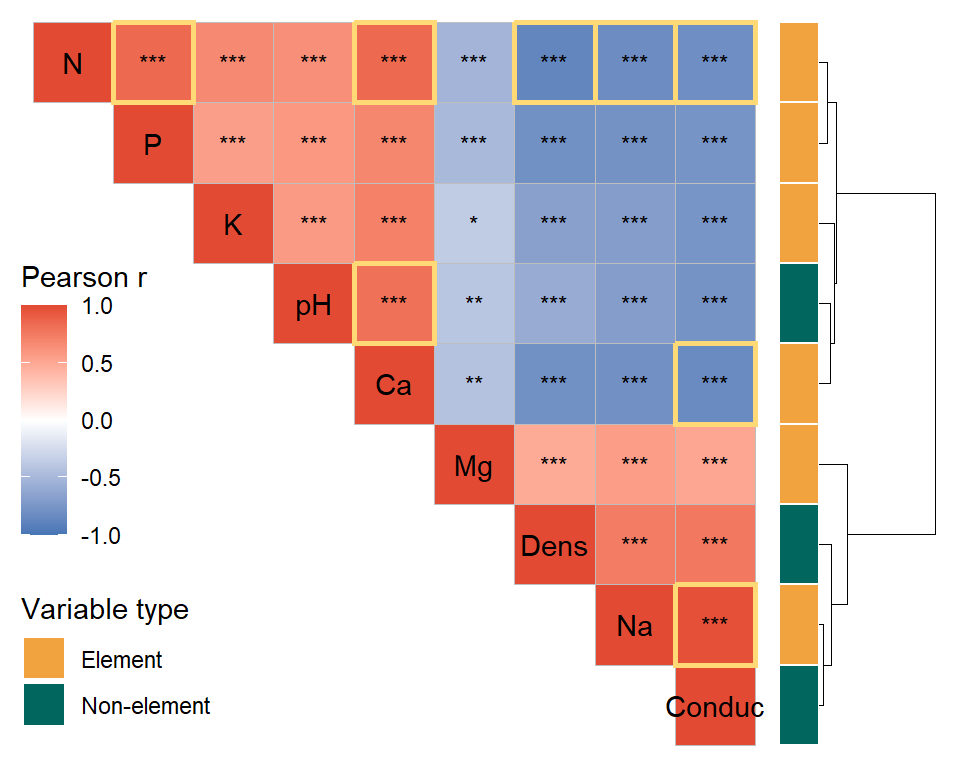
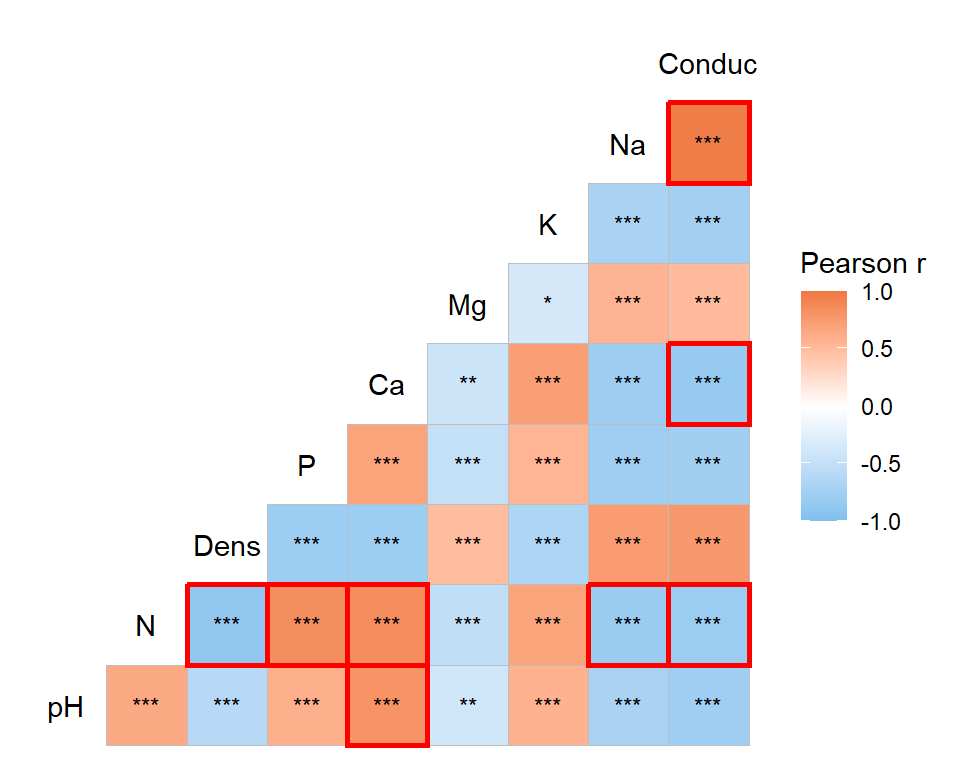
u

diff --git a/_posts/2026-02-17-post-43-pair-them-upcreating-scatterplot-and-correlation-matrices-in-ggplots/post-43-pair-them-upcreating-scatterplot-and-correlation-matrices-in-ggplots.html b/_posts/2026-02-17-post-43-pair-them-upcreating-scatterplot-and-correlation-matrices-in-ggplots/post-43-pair-them-upcreating-scatterplot-and-correlation-matrices-in-ggplots.html
@@ -119,7 +119,7 @@ code span.wa { color: #5e5e5e; font-style: italic; } /* Warning */
   <!--/radix_placeholder_rmarkdown_metadata-->
   
   <script type="text/json" id="radix-resource-manifest">
-  {"type":"character","attributes":{},"value":["post-43-pair-them-upcreating-scatterplot-and-correlation-matrices-in-ggplots_files/anchor-4.2.2/anchor.min.js","post-43-pair-them-upcreating-scatterplot-and-correlation-matrices-in-ggplots_files/bowser-1.9.3/bowser.min.js","post-43-pair-them-upcreating-scatterplot-and-correlation-matrices-in-ggplots_files/distill-2.2.21/template.v2.js","post-43-pair-them-upcreating-scatterplot-and-correlation-matrices-in-ggplots_files/figure-html5/unnamed-chunk-2-1.png","post-43-pair-them-upcreating-scatterplot-and-correlation-matrices-in-ggplots_files/figure-html5/unnamed-chunk-2-2.png","post-43-pair-them-upcreating-scatterplot-and-correlation-matrices-in-ggplots_files/figure-html5/unnamed-chunk-3-1.png","post-43-pair-them-upcreating-scatterplot-and-correlation-matrices-in-ggplots_files/figure-html5/unnamed-chunk-4-1.png","post-43-pair-them-upcreating-scatterplot-and-correlation-matrices-in-ggplots_files/figure-html5/unnamed-chunk-5-1.png","post-43-pair-them-upcreating-scatterplot-and-correlation-matrices-in-ggplots_files/header-attrs-2.30/header-attrs.js","post-43-pair-them-upcreating-scatterplot-and-correlation-matrices-in-ggplots_files/jquery-3.6.0/jquery-3.6.0.js","post-43-pair-them-upcreating-scatterplot-and-correlation-matrices-in-ggplots_files/jquery-3.6.0/jquery-3.6.0.min.js","post-43-pair-them-upcreating-scatterplot-and-correlation-matrices-in-ggplots_files/jquery-3.6.0/jquery-3.6.0.min.map","post-43-pair-them-upcreating-scatterplot-and-correlation-matrices-in-ggplots_files/popper-2.6.0/popper.min.js","post-43-pair-them-upcreating-scatterplot-and-correlation-matrices-in-ggplots_files/tippy-6.2.7/tippy-bundle.umd.min.js","post-43-pair-them-upcreating-scatterplot-and-correlation-matrices-in-ggplots_files/tippy-6.2.7/tippy-light-border.css","post-43-pair-them-upcreating-scatterplot-and-correlation-matrices-in-ggplots_files/tippy-6.2.7/tippy.css","post-43-pair-them-upcreating-scatterplot-and-correlation-matrices-in-ggplots_files/tippy-6.2.7/tippy.umd.min.js","post-43-pair-them-upcreating-scatterplot-and-correlation-matrices-in-ggplots_files/webcomponents-2.0.0/webcomponents.js"]}
+  {"type":"character","attributes":{},"value":["post-43-pair-them-upcreating-scatterplot-and-correlation-matrices-in-ggplots_files/anchor-4.2.2/anchor.min.js","post-43-pair-them-upcreating-scatterplot-and-correlation-matrices-in-ggplots_files/bowser-1.9.3/bowser.min.js","post-43-pair-them-upcreating-scatterplot-and-correlation-matrices-in-ggplots_files/distill-2.2.21/template.v2.js","post-43-pair-them-upcreating-scatterplot-and-correlation-matrices-in-ggplots_files/figure-html5/unnamed-chunk-2-1.png","post-43-pair-them-upcreating-scatterplot-and-correlation-matrices-in-ggplots_files/figure-html5/unnamed-chunk-2-2.png","post-43-pair-them-upcreating-scatterplot-and-correlation-matrices-in-ggplots_files/figure-html5/unnamed-chunk-3-1.png","post-43-pair-them-upcreating-scatterplot-and-correlation-matrices-in-ggplots_files/figure-html5/unnamed-chunk-4-1.png","post-43-pair-them-upcreating-scatterplot-and-correlation-matrices-in-ggplots_files/figure-html5/unnamed-chunk-5-1.png","post-43-pair-them-upcreating-scatterplot-and-correlation-matrices-in-ggplots_files/figure-html5/unnamed-chunk-6-1.png","post-43-pair-them-upcreating-scatterplot-and-correlation-matrices-in-ggplots_files/header-attrs-2.30/header-attrs.js","post-43-pair-them-upcreating-scatterplot-and-correlation-matrices-in-ggplots_files/jquery-3.6.0/jquery-3.6.0.js","post-43-pair-them-upcreating-scatterplot-and-correlation-matrices-in-ggplots_files/jquery-3.6.0/jquery-3.6.0.min.js","post-43-pair-them-upcreating-scatterplot-and-correlation-matrices-in-ggplots_files/jquery-3.6.0/jquery-3.6.0.min.map","post-43-pair-them-upcreating-scatterplot-and-correlation-matrices-in-ggplots_files/popper-2.6.0/popper.min.js","post-43-pair-them-upcreating-scatterplot-and-correlation-matrices-in-ggplots_files/tippy-6.2.7/tippy-bundle.umd.min.js","post-43-pair-them-upcreating-scatterplot-and-correlation-matrices-in-ggplots_files/tippy-6.2.7/tippy-light-border.css","post-43-pair-them-upcreating-scatterplot-and-correlation-matrices-in-ggplots_files/tippy-6.2.7/tippy.css","post-43-pair-them-upcreating-scatterplot-and-correlation-matrices-in-ggplots_files/tippy-6.2.7/tippy.umd.min.js","post-43-pair-them-upcreating-scatterplot-and-correlation-matrices-in-ggplots_files/webcomponents-2.0.0/webcomponents.js"]}
   </script>
   <!--radix_placeholder_navigation_in_header-->
   <!--/radix_placeholder_navigation_in_header-->
@@ -1651,7 +1651,7 @@ div.l-body img {
 <h2 id="part-ii.-create-correlation-heatmaps-with-ggcorrheatmap">Part II. Create correlation heatmaps with <code>ggcorrheatmap</code></h2>
 <p>In the second part of this post, we’ll focus on the continuous variables in the <code>Soil</code> dataset. <code>ggcorrheatmap</code> offers a wide variety of functionality for creating correlation heatmaps. Let’s start with the basics and add more complexity as we go.</p>
 <h3 id="make-a-basic-correlation-heatmap">(1) Make a basic correlation heatmap</h3>
-<p><code>ggcorrhm()</code> is the master function for creating correlation heatmaps. Simply pass your data to the function and you’ll get a basic heatmap (note that he default choice of correlation is the Pearson correlation coefficient)!. We can also adjust the cell color and shape, and remove the diagonal cells (which all have a correlation coefficient of 1).</p>
+<p><code>ggcorrhm()</code> is the master function for creating correlation heatmaps. Simply pass your data to the function and you’ll get a basic heatmap (note that the default choice of correlation is the Pearson’s <em>r</em>)!</p>
 <div class="layout-chunk" data-layout="l-body">
 <div class="sourceCode">
 <pre class="sourceCode r"><code class="sourceCode r"><span><span class='kw'><a href='https://rdrr.io/r/base/library.html'>library</a></span><span class='op'>(</span><span class='va'><a href='https://github.com/leod123/ggcorrheatmap'>ggcorrheatmap</a></span><span class='op'>)</span></span>
@@ -1663,23 +1663,26 @@ div.l-body img {
 <span><span class='co'>### Create a basic correlation heatmap</span></span>
 <span><span class='fu'><a href='https://leod123.github.io/ggcorrheatmap/reference/ggcorrhm.html'>ggcorrhm</a></span><span class='op'>(</span><span class='va'>Soils_continuous</span><span class='op'>)</span></span></code></pre>
 </div>
-<img src="post-43-pair-them-upcreating-scatterplot-and-correlation-matrices-in-ggplots_files/figure-html5/unnamed-chunk-2-1.png" alt="" width="480" style="display: block; margin: auto;" />
+<p><img src="post-43-pair-them-upcreating-scatterplot-and-correlation-matrices-in-ggplots_files/figure-html5/unnamed-chunk-2-1.png" alt="" width="480" style="display: block; margin: auto;" /></p>
+</div>
+<p>We can also change the cell color/shape and remove the diagonal cells (which all have a correlation coefficient of 1).</p>
+<div class="layout-chunk" data-layout="l-body">
 <div class="sourceCode">
 <pre class="sourceCode r"><code class="sourceCode r"><span><span class='co'>### Change the cell color and shape</span></span>
 <span><span class='fu'><a href='https://leod123.github.io/ggcorrheatmap/reference/ggcorrhm.html'>ggcorrhm</a></span><span class='op'>(</span><span class='va'>Soils_continuous</span>,</span>
-<span>         high <span class='op'>=</span> <span class='st'>"#de2d26"</span>,  <span class='co'># the color for the upper limit</span></span>
-<span>         mid <span class='op'>=</span> <span class='st'>"white"</span>,  <span class='co'># the color for the midpoint</span></span>
-<span>         low <span class='op'>=</span> <span class='st'>"#006d2c"</span>,  <span class='co'># the color for the lower limit</span></span>
-<span>         mode <span class='op'>=</span> <span class='fl'>21</span>,  <span class='co'># the shape of the cell (a number between 1 to 25)</span></span>
-<span>         include_diag <span class='op'>=</span> <span class='cn'>F</span>,  <span class='co'># remove the diagonal cells</span></span>
-<span>         size_range <span class='op'>=</span> <span class='fu'><a href='https://rdrr.io/r/base/c.html'>c</a></span><span class='op'>(</span><span class='fl'>5</span>, <span class='fl'>10</span><span class='op'>)</span>,  <span class='co'># the range of cell size</span></span>
-<span>         layout <span class='op'>=</span> <span class='st'>"bottomright"</span>,<span class='op'>)</span>  <span class='co'># show only the bottom-right trianglular matrix     </span></span></code></pre>
+<span>         high <span class='op'>=</span> <span class='st'>"#de2d26"</span>,  <span class='co'># color for the upper limit</span></span>
+<span>         mid <span class='op'>=</span> <span class='st'>"white"</span>,  <span class='co'># color for the midpoint</span></span>
+<span>         low <span class='op'>=</span> <span class='st'>"#006d2c"</span>,  <span class='co'># color for the lower limit</span></span>
+<span>         mode <span class='op'>=</span> <span class='fl'>21</span>,  <span class='co'># shape of the cell (a number between 1 to 25)</span></span>
+<span>         include_diag <span class='op'>=</span> <span class='cn'>F</span>,  <span class='co'># remove diagonal cells</span></span>
+<span>         size_range <span class='op'>=</span> <span class='fu'><a href='https://rdrr.io/r/base/c.html'>c</a></span><span class='op'>(</span><span class='fl'>5</span>, <span class='fl'>10</span><span class='op'>)</span>,  <span class='co'># cell size range</span></span>
+<span>         layout <span class='op'>=</span> <span class='st'>"bottomright"</span><span class='op'>)</span>  <span class='co'># show only the bottom-right triangular matrix     </span></span></code></pre>
 </div>
-<p><img src="post-43-pair-them-upcreating-scatterplot-and-correlation-matrices-in-ggplots_files/figure-html5/unnamed-chunk-2-2.png" alt="" width="480" style="display: block; margin: auto;" /></p>
+<p><img src="post-43-pair-them-upcreating-scatterplot-and-correlation-matrices-in-ggplots_files/figure-html5/unnamed-chunk-3-1.png" alt="" width="480" style="display: block; margin: auto;" /></p>
 </div>
-<p>Looks like there are some strong positive correlations (e.g., between Na and Conductance and between N and P) and some strong negative ones (e.g., between N and Density and between P and Density). But what are the actual coefficients (and their significance)?</p>
+<p>Looks like there are some strong positive correlations (e.g., between Na and Conductance and between N and P) and some strong negative ones (e.g., between N and Density and between P and Density). But what are the actual coefficients (and their statistical significance)?</p>
 <h3 id="create-a-correlation-heatmap-with-a-mixed-layout">(2) Create a correlation heatmap with a mixed layout</h3>
-<p><code>ggcorrhm()</code> allows users to create correlation heatmaps with a mixed layout. To do so, we first have to tell the function that we want two triangular matrices, using the “layout” argument. We will also need to specify what we would like to display in these two triangular matrices using the “mode” argument: “heatmap” gives the colored cells, whereas “none” gives empty cells. Next, we can use the “p_values” argument to specify whether we would like to display the significance stars in each of the two triangular matrices. Finally, we can use the “cell_labels” argument to specify whether we would like to display the correlation coefficients in each of the two triangular matrices.</p>
+<p><code>ggcorrhm()</code> allows users to create correlation heatmaps with a mixed layout (e.g., a mix of heatmap and text display). To do so, we first have to tell the function that we want two triangular matrices, using the “layout” argument. We will also need to specify what we would like to display in these two triangular matrices using the “mode” argument: “heatmap” gives the colored cells, whereas “none” gives empty cells. Next, we can use the “p_values” argument to specify whether we would like to display the significance stars in each of the two triangular matrices. Finally, we can use the “cell_labels” argument to specify whether we would like to display the correlation coefficients in each of the two triangular matrices.</p>
 <div class="layout-chunk" data-layout="l-body">
 <div class="sourceCode">
 <pre class="sourceCode r"><code class="sourceCode r"><span><span class='co'>### A mixed layout with color cells and p-values</span></span>
@@ -1687,16 +1690,16 @@ div.l-body img {
 <span>         layout <span class='op'>=</span> <span class='fu'><a href='https://rdrr.io/r/base/c.html'>c</a></span><span class='op'>(</span><span class='st'>"topleft"</span>, <span class='st'>"bottomright"</span><span class='op'>)</span>,  <span class='co'># create two triangular matrices</span></span>
 <span>         mode <span class='op'>=</span> <span class='fu'><a href='https://rdrr.io/r/base/c.html'>c</a></span><span class='op'>(</span><span class='st'>"heatmap"</span>, <span class='st'>"none"</span><span class='op'>)</span>,  <span class='co'># what to display in each of the two triangular matrices</span></span>
 <span>         include_diag <span class='op'>=</span> <span class='cn'>T</span>,</span>
-<span>         p_values <span class='op'>=</span> <span class='fu'><a href='https://rdrr.io/r/base/c.html'>c</a></span><span class='op'>(</span><span class='cn'>F</span>, <span class='cn'>T</span><span class='op'>)</span>,  <span class='co'># whether to show the significance stars in each of two triangular matrices</span></span>
+<span>         p_values <span class='op'>=</span> <span class='fu'><a href='https://rdrr.io/r/base/c.html'>c</a></span><span class='op'>(</span><span class='cn'>F</span>, <span class='cn'>T</span><span class='op'>)</span>,  <span class='co'># whether to show the significance stars in each of the two triangular matrices</span></span>
 <span>         p_adjust <span class='op'>=</span> <span class='st'>"none"</span>,  <span class='co'># can be any of the method in "p.adjust.methods"</span></span>
 <span>         p_thresholds <span class='op'>=</span> <span class='fu'><a href='https://rdrr.io/r/base/c.html'>c</a></span><span class='op'>(</span><span class='st'>"***"</span> <span class='op'>=</span> <span class='fl'>0.001</span>, <span class='st'>"**"</span> <span class='op'>=</span> <span class='fl'>0.01</span>, <span class='st'>"*"</span> <span class='op'>=</span> <span class='fl'>0.05</span>, <span class='fl'>1</span><span class='op'>)</span>,  <span class='co'># thresholds for annotating the significance stars</span></span>
-<span>         cell_labels <span class='op'>=</span> <span class='fu'><a href='https://rdrr.io/r/base/c.html'>c</a></span><span class='op'>(</span><span class='cn'>T</span>, <span class='cn'>F</span><span class='op'>)</span><span class='op'>)</span>  <span class='co'># whether to show the correlation coefficients in each of two triangular matrices</span></span></code></pre>
+<span>         cell_labels <span class='op'>=</span> <span class='fu'><a href='https://rdrr.io/r/base/c.html'>c</a></span><span class='op'>(</span><span class='cn'>T</span>, <span class='cn'>F</span><span class='op'>)</span><span class='op'>)</span>  <span class='co'># whether to show the correlation coefficients in each of the two triangular matrices</span></span></code></pre>
 </div>
-<p><img src="post-43-pair-them-upcreating-scatterplot-and-correlation-matrices-in-ggplots_files/figure-html5/unnamed-chunk-3-1.png" alt="" width="480" style="display: block; margin: auto;" /></p>
+<p><img src="post-43-pair-them-upcreating-scatterplot-and-correlation-matrices-in-ggplots_files/figure-html5/unnamed-chunk-4-1.png" alt="" width="480" style="display: block; margin: auto;" /></p>
 </div>
 <p>All correlation coefficients are significant (without <em>p</em>-value adjustment)!!!</p>
 <h3 id="highlight-certain-cells-in-the-heatmap">(3) Highlight certain cells in the heatmap</h3>
-<p>Now that we’ve learned how to make basic correlation heatmaps, we can spruce them up a bit! One thing we can do is to highlight certain cells. For example, we can highlight the borders of the cells with very strong correlations (absolute correlation coefficients larger than 0.8).</p>
+<p>Now that we’ve learned how to make a basic correlation heatmap, we can spruce it up a bit! One thing we can do is to highlight certain cells. For example, we can highlight the cells with very strong correlations (absolute correlation coefficients larger than 0.8).</p>
 <p>To do so, we’ll first create a basic plot and set “return_data = T”. This allows us to access the data underlying the heatmap. We can then save the data as a new object and create two new columns for the cell border width and the cell border color based on the correlation coefficients. Finally, we remake the original heatmap and add a new “geom_tile()” layer where we specify our new cell border width and color.</p>
 <div class="layout-chunk" data-layout="l-body">
 <div class="sourceCode">
@@ -1708,8 +1711,8 @@ div.l-body img {
 <span></span>
 <span><span class='co'>### Create two new columns for the cell border width and color</span></span>
 <span><span class='va'>p_data</span> <span class='op'>&lt;-</span> <span class='va'>p_basic</span><span class='op'>$</span><span class='va'>plot_data</span> <span class='op'><a href='https://magrittr.tidyverse.org/reference/pipe.html'>%&gt;%</a></span> </span>
-<span>  <span class='fu'><a href='https://dplyr.tidyverse.org/reference/mutate.html'>mutate</a></span><span class='op'>(</span>border_width <span class='op'>=</span> <span class='fu'><a href='https://dplyr.tidyverse.org/reference/if_else.html'>if_else</a></span><span class='op'>(</span><span class='fu'><a href='https://rdrr.io/r/base/MathFun.html'>abs</a></span><span class='op'>(</span><span class='va'>value</span><span class='op'>)</span> <span class='op'>&lt;</span> <span class='fl'>0.8</span>, <span class='fl'>0</span>, <span class='fl'>1</span><span class='op'>)</span>,</span>
-<span>         border_color <span class='op'>=</span> <span class='fu'><a href='https://dplyr.tidyverse.org/reference/if_else.html'>if_else</a></span><span class='op'>(</span><span class='fu'><a href='https://rdrr.io/r/base/MathFun.html'>abs</a></span><span class='op'>(</span><span class='va'>value</span><span class='op'>)</span> <span class='op'>&lt;</span> <span class='fl'>0.8</span>, <span class='cn'>NA</span>, <span class='st'>"red"</span><span class='op'>)</span><span class='op'>)</span></span>
+<span>  <span class='fu'><a href='https://dplyr.tidyverse.org/reference/mutate.html'>mutate</a></span><span class='op'>(</span>border_width <span class='op'>=</span> <span class='fu'><a href='https://dplyr.tidyverse.org/reference/if_else.html'>if_else</a></span><span class='op'>(</span><span class='fu'><a href='https://rdrr.io/r/base/MathFun.html'>abs</a></span><span class='op'>(</span><span class='va'>value</span><span class='op'>)</span> <span class='op'>&lt;</span> <span class='fl'>0.8</span>, <span class='fl'>0</span>, <span class='fl'>1</span><span class='op'>)</span>,  <span class='co'># thicker cell border if |r| &gt; 0.8</span></span>
+<span>         border_color <span class='op'>=</span> <span class='fu'><a href='https://dplyr.tidyverse.org/reference/if_else.html'>if_else</a></span><span class='op'>(</span><span class='fu'><a href='https://rdrr.io/r/base/MathFun.html'>abs</a></span><span class='op'>(</span><span class='va'>value</span><span class='op'>)</span> <span class='op'>&lt;</span> <span class='fl'>0.8</span>, <span class='cn'>NA</span>, <span class='st'>"red"</span><span class='op'>)</span><span class='op'>)</span>  <span class='co'># red cell border if |r| &gt; 0.8</span></span>
 <span></span>
 <span><span class='co'>### Add a new geom_tile() layer to the original plot</span></span>
 <span><span class='fu'><a href='https://leod123.github.io/ggcorrheatmap/reference/ggcorrhm.html'>ggcorrhm</a></span><span class='op'>(</span><span class='va'>Soils_continuous</span>, </span>
@@ -1722,14 +1725,15 @@ div.l-body img {
 <span>            linewidth <span class='op'>=</span> <span class='va'>p_data</span><span class='op'>$</span><span class='va'>border_width</span>,  <span class='co'># new cell border width </span></span>
 <span>            color <span class='op'>=</span> <span class='va'>p_data</span><span class='op'>$</span><span class='va'>border_color</span><span class='op'>)</span>  <span class='co'># new cell border color</span></span></code></pre>
 </div>
-<p><img src="post-43-pair-them-upcreating-scatterplot-and-correlation-matrices-in-ggplots_files/figure-html5/unnamed-chunk-4-1.png" alt="" width="480" style="display: block; margin: auto;" /></p>
+<p><img src="post-43-pair-them-upcreating-scatterplot-and-correlation-matrices-in-ggplots_files/figure-html5/unnamed-chunk-5-1.png" alt="" width="480" style="display: block; margin: auto;" /></p>
 </div>
 <h3 id="cluster-the-variables-and-annotate-the-heatmap">(4) Cluster the variables and annotate the heatmap</h3>
-<p>There are two more things we can do to make the heatmap even fancier: clustering the variables based on the correlation matrix and annotating the plot.</p>
-<p>To annotate the heatmap, we’ll first create a new dataframe with a column indicating the variable names and one or more columns of annotation variables (which can be both categorical or continuous). Simply pass the data to the argument “annot_rows_df =” (or “annot_cols_df =” depending on which side of the heatmap you would like annotate) and the annotation will show up in the plot! We can further customize the annotation using a variety of the “annot_XXX” arguments, as shown in the example below.</p>
+<p>There are two more things we can do to make the heatmap even fancier: (1) clustering the variables and (2) annotating the plot.</p>
+<p>To cluster the variables, we need to specify “cluster_rows = T” and “cluster_cols = T”, which will perform hierarchical clustering on the data using the function <code>hclust()</code>. We then specify the clustering distance (default is the Euclidean distance) and the agglomeration method (default is the complete method). We can also decide whether we would like to display the row/column dendrogram using the argument “show_dend_rows/show_dend_cols”. Finally, there are arguments “dend_XXX” for adjusting the dendrogram appearance.</p>
+<p>To annotate the heatmap, we’ll first create a new dataframe with a column indicating the variable names and one or more columns of annotation variables (which can be both categorical or continuous). Simply pass the data to the argument “annot_rows_df =” (or “annot_cols_df =” depending on the side of the heatmap you would like annotate on) and the annotation will show up in the plot! We can further customize the annotation using a variety of the “annot_XXX” arguments, as shown in the example below.</p>
 <div class="layout-chunk" data-layout="l-body">
 <div class="sourceCode">
-<pre class="sourceCode r"><code class="sourceCode r"><span><span class='co'>### Data for highlighting the cell borders</span></span>
+<pre class="sourceCode r"><code class="sourceCode r"><span><span class='co'>### Data for highlighting cell borders</span></span>
 <span><span class='va'>p_basic</span> <span class='op'>&lt;-</span> <span class='fu'><a href='https://leod123.github.io/ggcorrheatmap/reference/ggcorrhm.html'>ggcorrhm</a></span><span class='op'>(</span><span class='va'>Soils_continuous</span>, </span>
 <span>                    layout <span class='op'>=</span> <span class='st'>"topright"</span>, </span>
 <span>                    include_diag <span class='op'>=</span> <span class='cn'>F</span>,</span>
@@ -1741,7 +1745,7 @@ div.l-body img {
 <span></span>
 <span><span class='co'>### Create a dataframe for annotation</span></span>
 <span><span class='va'>annotation_df</span> <span class='op'>&lt;-</span> <span class='fu'><a href='https://rdrr.io/r/base/data.frame.html'>data.frame</a></span><span class='op'>(</span>.names <span class='op'>=</span> <span class='fu'><a href='https://rdrr.io/r/base/colnames.html'>colnames</a></span><span class='op'>(</span><span class='va'>Soils_continuous</span><span class='op'>)</span>,  <span class='co'># variable names</span></span>
-<span>                            Type <span class='op'>=</span> <span class='fu'><a href='https://rdrr.io/r/base/c.html'>c</a></span><span class='op'>(</span><span class='st'>"Non-element"</span>, <span class='st'>"Element"</span>, <span class='st'>"Non-element"</span>,  <span class='co'># annotation variable </span></span>
+<span>                            Type <span class='op'>=</span> <span class='fu'><a href='https://rdrr.io/r/base/c.html'>c</a></span><span class='op'>(</span><span class='st'>"Non-element"</span>, <span class='st'>"Element"</span>, <span class='st'>"Non-element"</span>,  <span class='co'># annotation variable</span></span>
 <span>                                     <span class='st'>"Element"</span>, <span class='st'>"Element"</span>, <span class='st'>"Element"</span>,</span>
 <span>                                     <span class='st'>"Element"</span>, <span class='st'>"Element"</span>, <span class='st'>"Non-element"</span><span class='op'>)</span><span class='op'>)</span></span>
 <span></span>
@@ -1757,13 +1761,17 @@ div.l-body img {
 <span>         <span class='co'># arguments for clustering</span></span>
 <span>         cluster_rows <span class='op'>=</span> <span class='cn'>T</span>,  <span class='co'># cluster the rows  </span></span>
 <span>         cluster_cols <span class='op'>=</span> <span class='cn'>T</span>,  <span class='co'># cluster the columns</span></span>
-<span>         show_dend_cols <span class='op'>=</span> <span class='cn'>F</span>,  <span class='co'># hide the column dendrogram </span></span>
+<span>         cluster_distance <span class='op'>=</span> <span class='st'>"euclidean"</span>,  <span class='co'># clustering distance</span></span>
+<span>         cluster_method <span class='op'>=</span> <span class='st'>"complete"</span>,  <span class='co'># clustering method</span></span>
+<span>         show_dend_cols <span class='op'>=</span> <span class='cn'>F</span>,  <span class='co'># hide column dendrogram</span></span>
+<span>         dend_height <span class='op'>=</span> <span class='fl'>0.7</span>,  <span class='co'># rescale branch length</span></span>
+<span>         dend_lwd <span class='op'>=</span> <span class='fl'>0.7</span>,  <span class='co'># dendrogram line width</span></span>
 <span>         </span>
 <span>         <span class='co'># arguments for annotation</span></span>
 <span>         annot_rows_df <span class='op'>=</span> <span class='va'>annotation_df</span>,  <span class='co'># dataframe for annotation</span></span>
-<span>         annot_rows_names_side <span class='op'>=</span> <span class='st'>"top"</span>,</span>
+<span>         annot_rows_names_side <span class='op'>=</span> <span class='st'>"top"</span>,  <span class='co'># side of annotation name (this has no effect here since the annotation name is hidden)</span></span>
 <span>         show_annot_names <span class='op'>=</span> <span class='cn'>F</span>,  <span class='co'># hide the annotation name ("Type")</span></span>
-<span>         annot_dist <span class='op'>=</span> <span class='fl'>0.3</span>,  <span class='co'># distance between the annotation and the heatmap</span></span>
+<span>         annot_dist <span class='op'>=</span> <span class='fl'>0.3</span>,  <span class='co'># distance between annotation and heatmap</span></span>
 <span>         annot_rows_col <span class='op'>=</span> <span class='fu'><a href='https://rdrr.io/r/base/list.html'>list</a></span><span class='op'>(</span><span class='st'>"Type"</span> <span class='op'>=</span> <span class='fu'><a href='https://ggplot2.tidyverse.org/reference/scale_manual.html'>scale_fill_manual</a></span><span class='op'>(</span>name <span class='op'>=</span> <span class='st'>"Variable type"</span>, values <span class='op'>=</span> <span class='fu'><a href='https://rdrr.io/r/base/c.html'>c</a></span><span class='op'>(</span><span class='st'>"#f1a340"</span>, <span class='st'>"#01665e"</span><span class='op'>)</span><span class='op'>)</span><span class='op'>)</span>,  <span class='co'># annotation tile color</span></span>
 <span>         annot_border_lwd <span class='op'>=</span> <span class='fl'>0.5</span>,  <span class='co'># annotation border width</span></span>
 <span>         annot_border_col <span class='op'>=</span> <span class='st'>"white"</span><span class='op'>)</span> <span class='op'>+</span>  <span class='co'># annotation border color</span></span>
@@ -1774,8 +1782,9 @@ div.l-body img {
 <span>  <span class='fu'><a href='https://ggplot2.tidyverse.org/reference/theme.html'>theme</a></span><span class='op'>(</span>legend.position <span class='op'>=</span> <span class='st'>"inside"</span>,</span>
 <span>        legend.position.inside <span class='op'>=</span> <span class='fu'><a href='https://rdrr.io/r/base/c.html'>c</a></span><span class='op'>(</span><span class='fl'>0.1</span>, <span class='fl'>0.35</span><span class='op'>)</span><span class='op'>)</span></span></code></pre>
 </div>
-<p><img src="post-43-pair-them-upcreating-scatterplot-and-correlation-matrices-in-ggplots_files/figure-html5/unnamed-chunk-5-1.png" alt="" width="480" style="display: block; margin: auto;" /></p>
+<p><img src="post-43-pair-them-upcreating-scatterplot-and-correlation-matrices-in-ggplots_files/figure-html5/unnamed-chunk-6-1.png" alt="" width="480" style="display: block; margin: auto;" /></p>
 </div>
+<p>Awesome! Looks like there are two main clusters of variables: [Mg, Density, Na, and Conductance] vs. [N, P, K, pH, and Ca].</p>
 <h2 id="summary">Summary</h2>
 <p>Hope you learn something useful from this post and don’t forget to leave your comments and suggestions below if you have any!</p>
 <div class="sourceCode" id="cb1"><pre class="sourceCode r distill-force-highlighting-css"><code class="sourceCode r"></code></pre></div>
